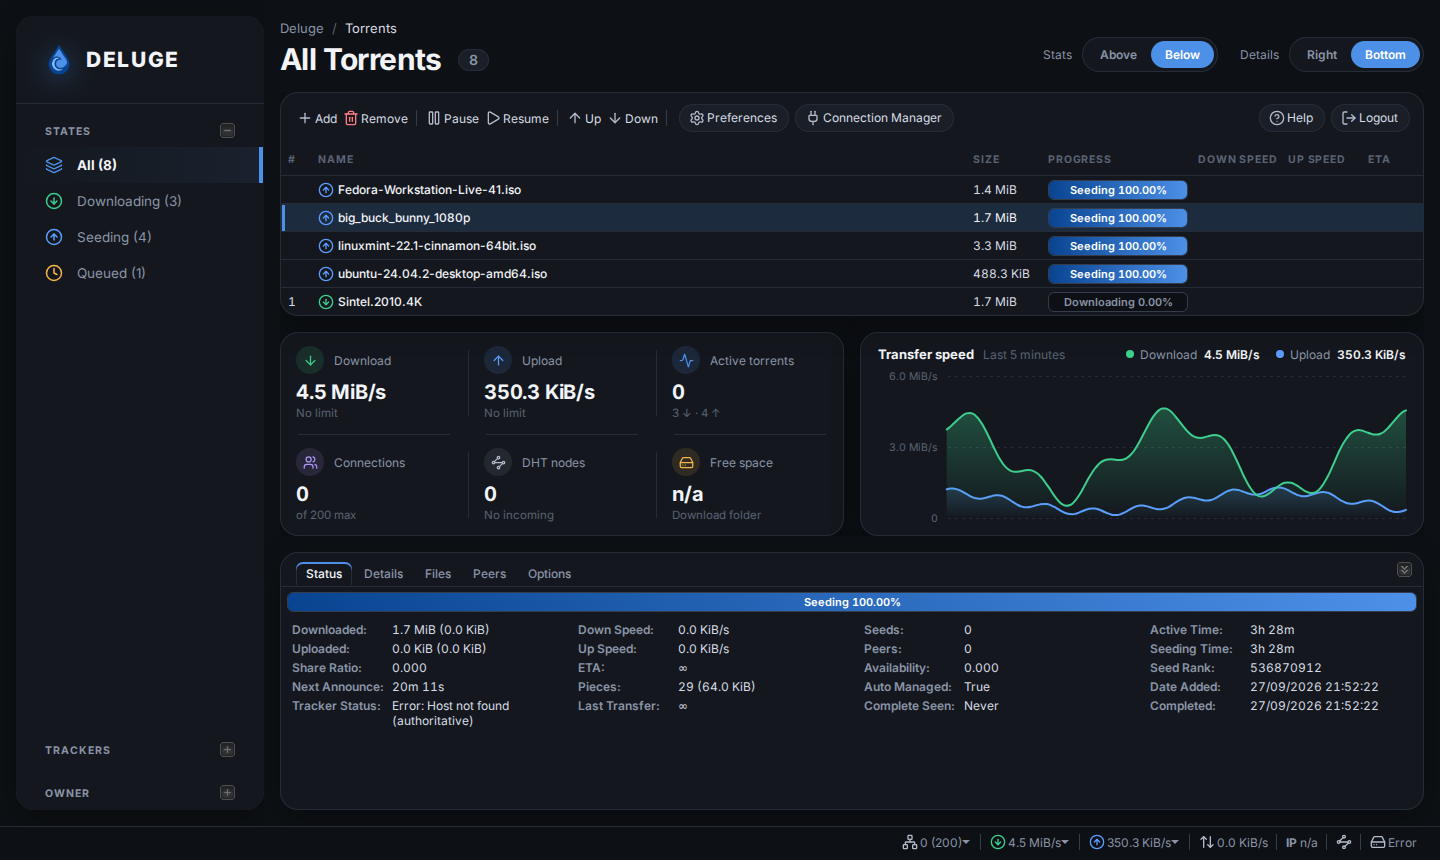
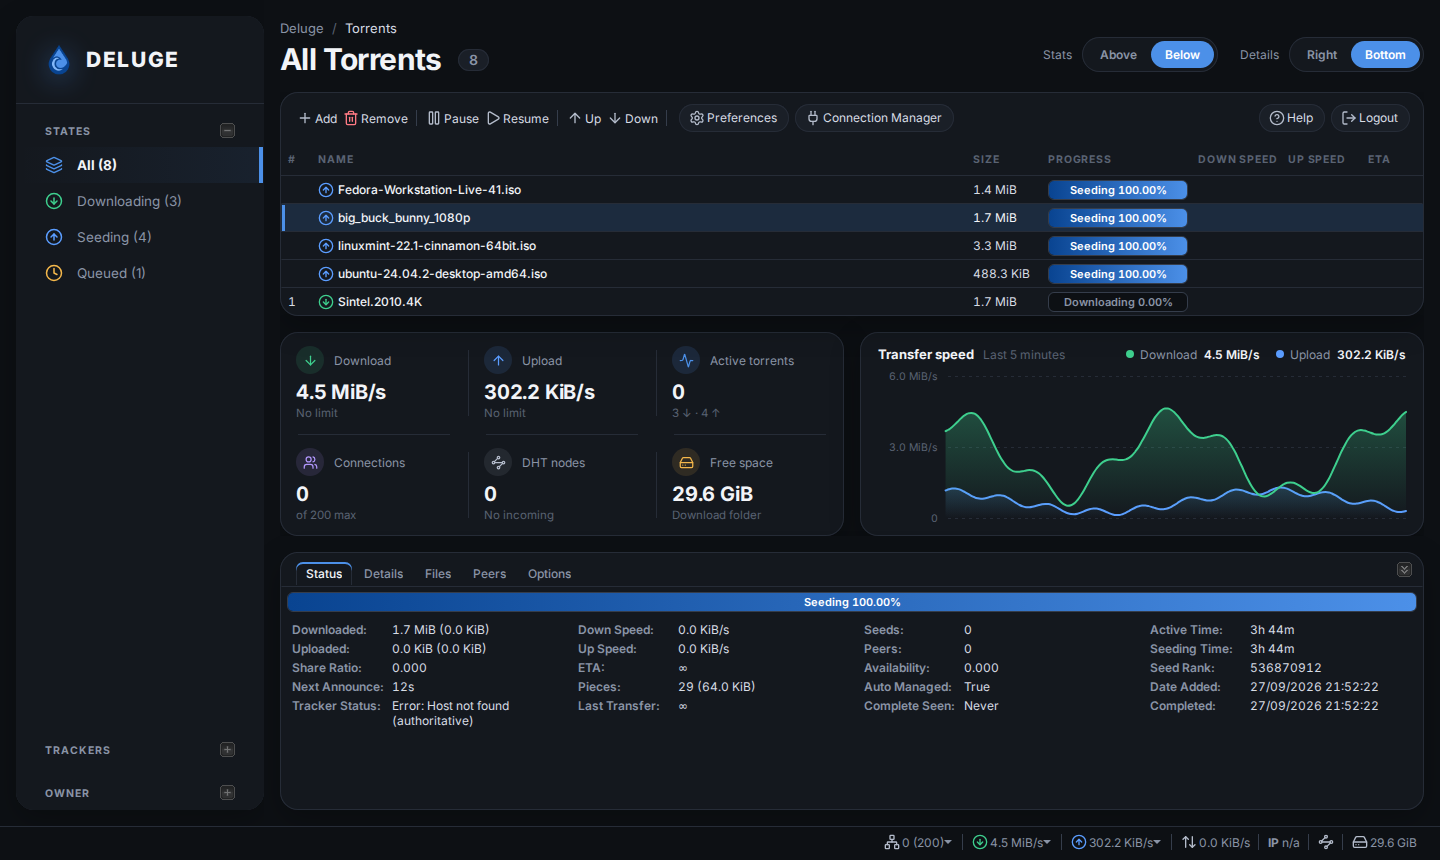
Dashboard: explain a missing download folder in the Free space card
Deluge reports -1 free space when the daemon can't find the download
folder (it doesn't exist, or deluged's user can't reach it), and its
status bar just says "Error"; the card showed "n/a". Show "Folder
not found" in amber, with a link that opens Preferences on the
Downloads page and a tooltip explaining the cause. Before the first
update, show a dash like the other cards.

Refresh the dashboard screenshots, now with free space showing.

diff --git a/plugin/deluge_darkhand/data/darkhand.js b/plugin/deluge_darkhand/data/darkhand.js
@@ -260,11 +260,45 @@ Ext.ns('Deluge.plugins.darkhand');
             stats.dht_nodes || 0,
             stats.has_incoming_connections ? 'Incoming OK' : 'No incoming'
         );
-        setStat(
-            'space',
-            stats.free_space >= 0 ? fsize(stats.free_space, true) : 'n/a',
-            'Download folder'
-        );
+        setFreeSpace(stats.free_space);
+    }
+
+    // Preferences, on the Downloads page (Download to)
+    function openDownloadPrefs(e) {
+        if (e && e.preventDefault) e.preventDefault();
+        deluge.preferences.show();
+        Ext.defer(function () {
+            try {
+                deluge.preferences.selectPage(_('Downloads'));
+            } catch (err) {}
+        }, 50);
+        return false;
+    }
+
+    // Deluge reports -1 when the daemon can't find the download folder
+    // (Preferences > Downloads > Download to): it doesn't exist, or the
+    // user deluged runs as can't reach it. Its status bar just says "Error".
+    function setFreeSpace(space) {
+        var card = Ext.get(document.querySelector('.dh-stat-space'));
+        var missing = typeof space === 'number' && space < 0;
+        if (card) {
+            card[missing ? 'addClass' : 'removeClass']('dh-stat-warn');
+            card.dom.title = missing
+                ? "Deluge can't find the download folder: it doesn't exist, or the user " +
+                  'deluged runs as can’t reach it. Check Preferences › Downloads › Download to.'
+                : '';
+        }
+        if (missing) {
+            var sub = document.getElementById('dh-stat-space-sub');
+            var value = document.getElementById('dh-stat-space');
+            if (value) value.innerHTML = 'Folder not found';
+            if (sub && !sub.querySelector('.dh-stat-link')) {
+                sub.innerHTML = '<a href="#" class="dh-stat-link">Open Preferences</a>';
+                sub.firstChild.onclick = openDownloadPrefs;
+            }
+        } else {
+            setStat('space', typeof space === 'number' ? fsize(space, true) : '–', 'Download folder');
+        }
     }
 
     // -----------------------------------------------------------------------

diff --git a/theme/darkhand/dashboard.css b/theme/darkhand/dashboard.css
@@ -472,6 +472,26 @@ html body.dh-dashboard,
     color: var(--dh-text-faint);
 }
 
+/* A stat Deluge couldn't work out (the download folder is missing): a
+   smaller amber message, on the same line height so the card keeps its
+   size */
+.dh-stat-warn .dh-stat-value {
+    font-size: 15px;
+    line-height: 25px;
+    letter-spacing: 0;
+    color: var(--dh-warn);
+}
+
+.dh-stat-link,
+.dh-stat-link:visited {
+    color: var(--dh-accent);
+    text-decoration: none;
+}
+
+.dh-stat-link:hover {
+    text-decoration: underline;
+}
+
 /* ------------------------------------------------------------------------ */
 /* Speed chart                                                              */
 /* ------------------------------------------------------------------------ */

diff --git a/README.md b/README.md
@@ -20,6 +20,10 @@ The stats card shows download and upload speed (with their limits), active
 torrents (downloading and seeding), connections, DHT nodes (and whether incoming
 connections work), and free space in the download folder. The values refresh
 with Deluge's regular two-second update, so the card adds no extra requests.
+If the daemon can't find the download folder (it doesn't exist, or the user
+`deluged` runs as can't reach it), Free space says **Folder not found** with a
+link to **Preferences → Downloads**, where Deluge's own status bar just says
+"Error".
 
 The speed chart plots download and upload over the last five minutes from the
 same updates. Deluge's web API keeps no speed history, so the chart starts
